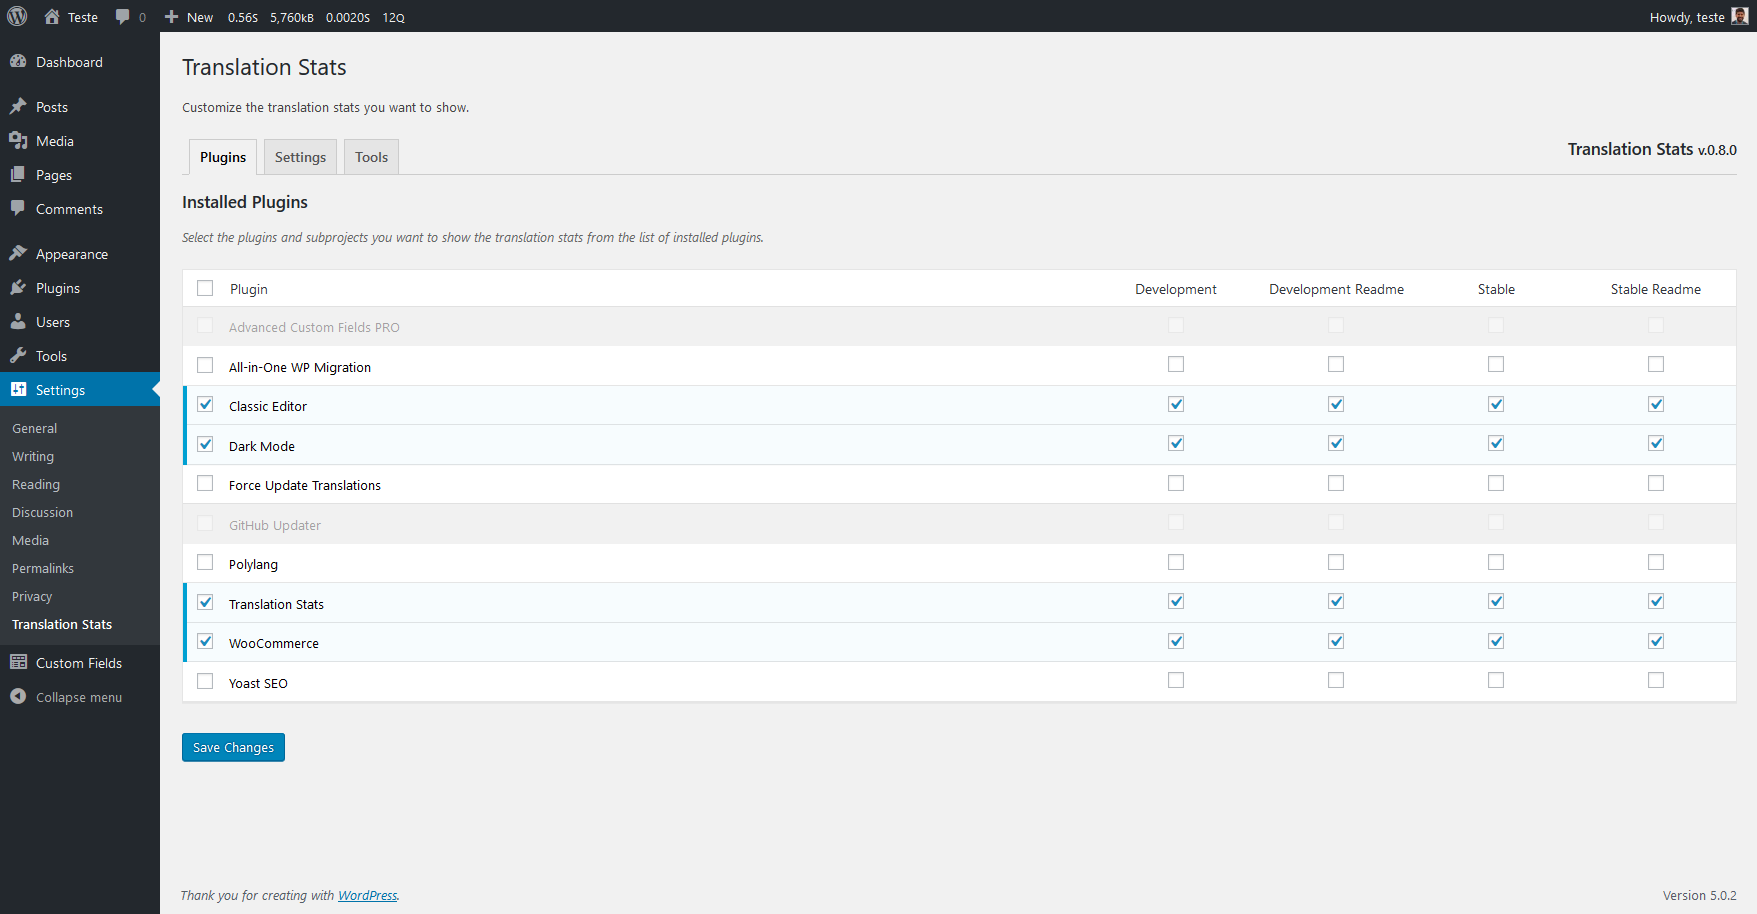
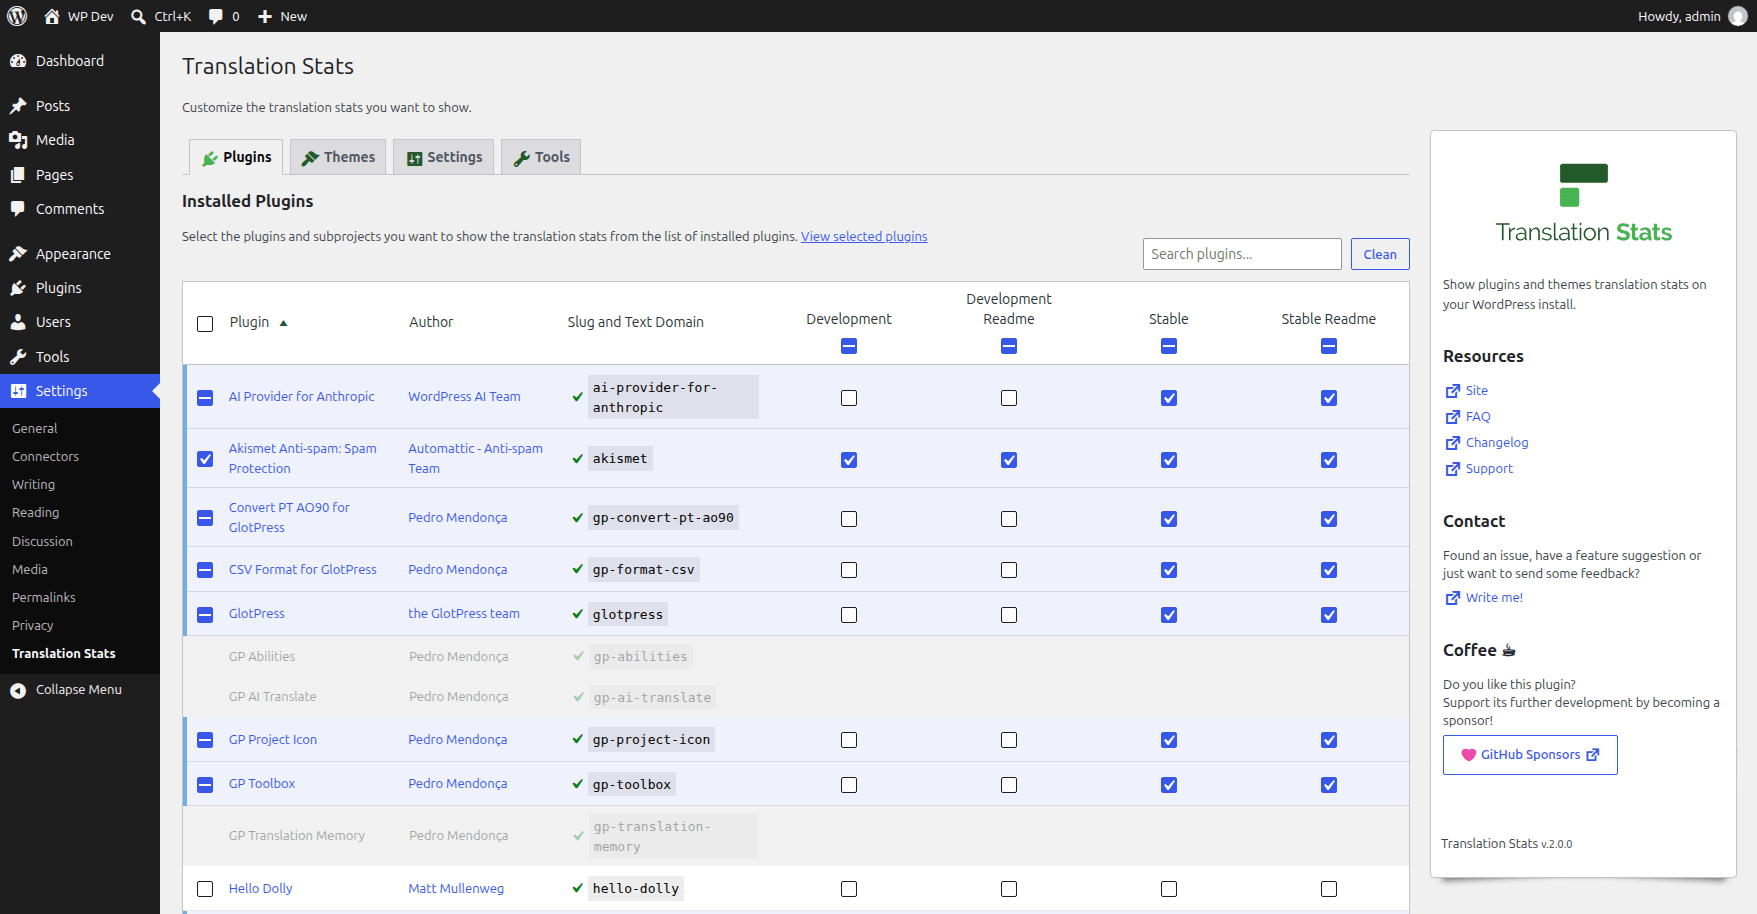
Update the screenshots, with the themes, and the readme

diff --git a/README.md b/README.md
@@ -92,6 +92,18 @@ Sure! You are welcome to report any issues or add feature suggestions on the [Gi
 
    ![screenshot-4](./.wordpress-org/screenshot-4.png)
 
+5. Translation Stats shown in WordPress themes page
+
+   ![screenshot-5](./.wordpress-org/screenshot-5.png)
+
+6. Translation Stats shown in WordPress theme details
+
+   ![screenshot-6](./.wordpress-org/screenshot-6.png)
+
+7. Translation Stats installed themes list
+
+   ![screenshot-7](./.wordpress-org/screenshot-7.png)
+
 ## Changelog
 
 ### 2.0.0
@@ -106,10 +118,11 @@ Sure! You are welcome to report any issues or add feature suggestions on the [Gi
 * Fix the settings Save button focus cut on the left.
 * Save the settings checkboxes as booleans, updating the saved settings automatically.
 * Remove the console logs.
-* Developers: Add the Project, Plugin_Project and Theme_Project classes for the translate.wordpress.org projects and their translation stats. Remove Translations_API::translations_api_get_plugin(), plugin_project_on_translate_wporg() and plugin_subproject_on_translate_wporg(), and Plugins::plugin_subproject_stats(), plugin_stats_cached() and plugin_subproject_stats_transient().
-* Developers: The REST API route translation-stats/v1/(plugins|themes)/<slug>/stats loads the plugins and themes translation stats.
-* Developers: Deprecate the TRANSLATION_STATS_TRANSIENTS_PREFIX constant, replaced by TRANSLATION_STATS_TRANSIENTS_PLUGINS_PREFIX. The themes transients use TRANSLATION_STATS_TRANSIENTS_THEMES_PREFIX.
-* Build the JavaScript and CSS with @wordpress/scripts.
+* Remove the bundled Portuguese (pt_PT) translation files, not loaded by WordPress. The translations are loaded from translate.wordpress.org.
+* Developers: Add the `Project`, `Plugin_Project` and `Theme_Project` classes for the translate.wordpress.org projects and their translation stats. Remove `Translations_API::translations_api_get_plugin()`, `plugin_project_on_translate_wporg()` and `plugin_subproject_on_translate_wporg()`, and `Plugins::plugin_subproject_stats()`, `plugin_stats_cached()` and `plugin_subproject_stats_transient()`.
+* Developers: The REST API route `translation-stats/v1/(plugins|themes)/<slug>/stats` loads the plugins and themes translation stats.
+* Developers: Deprecate the `TRANSLATION_STATS_TRANSIENTS_PREFIX` constant, replaced by `TRANSLATION_STATS_TRANSIENTS_PLUGINS_PREFIX`. The themes transients use `TRANSLATION_STATS_TRANSIENTS_THEMES_PREFIX`.
+* Build the JavaScript and CSS with `@wordpress/scripts`.
 * Increase PHPStan level to 9, and unit tests coverage.
 
 ### 1.4.0
